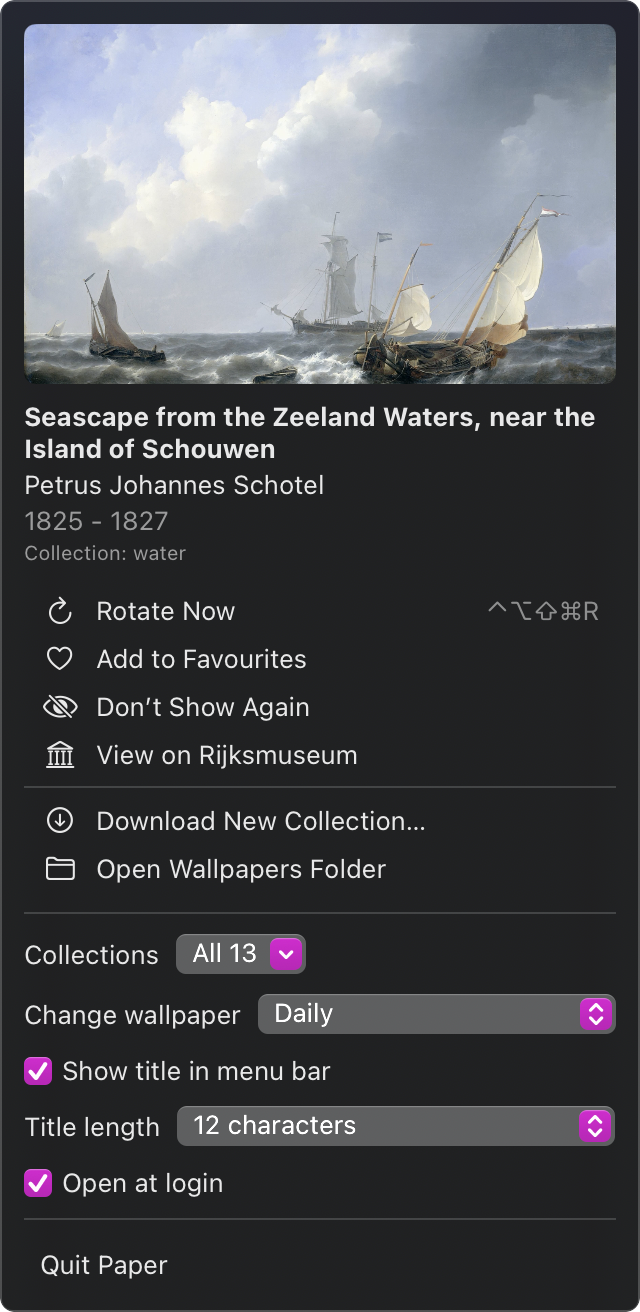
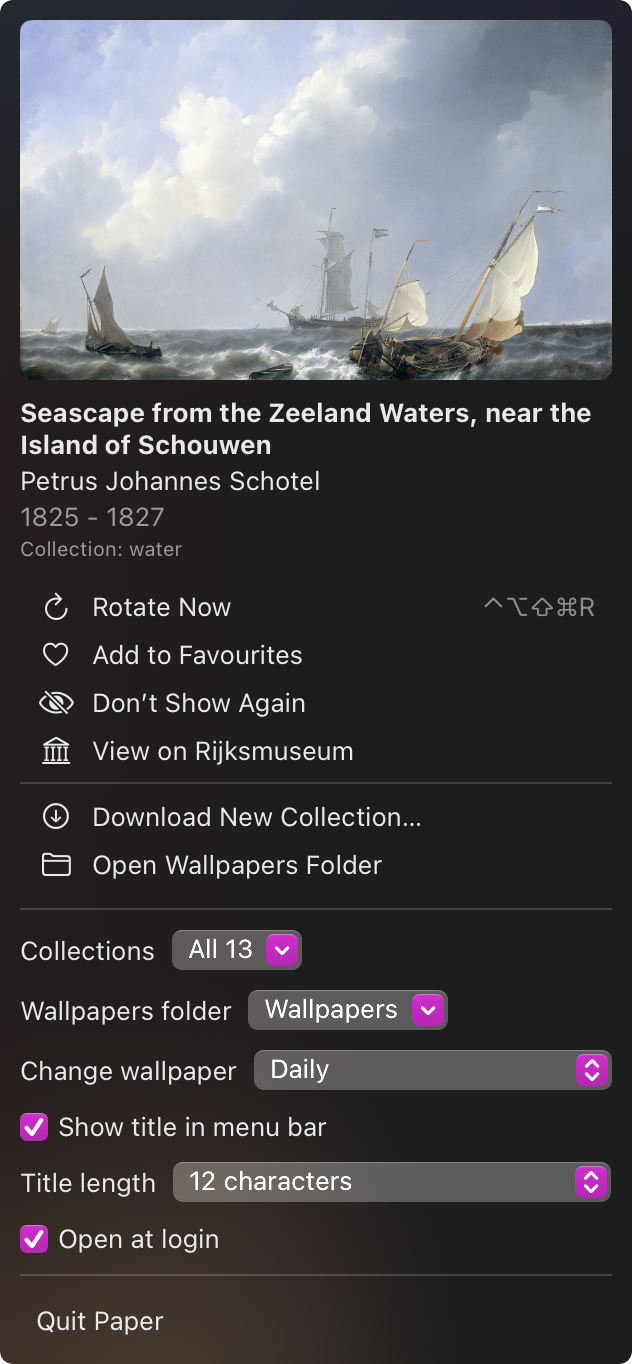
Add a choice of wallpapers folder, and rework the README

diff --git a/Paper/Sources/Paper/Library.swift b/Paper/Sources/Paper/Library.swift
@@ -7,14 +7,38 @@ import ServiceManagement
 /// _metadata.json files and current_wallpaper.json keep working (and the
 /// scripts can still run alongside the app).
 enum Paths {
-    static let root: URL = {
+    static let defaultRoot = FileManager.default.homeDirectoryForCurrentUser
+        .appendingPathComponent("Pictures/Wallpapers")
+
+    private static let commandLineRoot: URL? = {
         let args = CommandLine.arguments
-        if let i = args.firstIndex(of: "--root"), i + 1 < args.count {
-            return URL(fileURLWithPath: (args[i + 1] as NSString).expandingTildeInPath)
-        }
-        return FileManager.default.homeDirectoryForCurrentUser
-            .appendingPathComponent("Pictures/Wallpapers")
+        guard let i = args.firstIndex(of: "--root"), i + 1 < args.count else { return nil }
+        return URL(fileURLWithPath: (args[i + 1] as NSString).expandingTildeInPath)
     }()
+
+    /// The folder chosen in the menu; nil means the default.
+    static var chosenRoot: URL? {
+        get { UserDefaults.standard.string(forKey: "wallpapersFolder").map { URL(fileURLWithPath: $0) } }
+        set { UserDefaults.standard.set(newValue?.path, forKey: "wallpapersFolder") }
+    }
+
+    static var root: URL { commandLineRoot ?? chosenRoot ?? defaultRoot }
+
+    static var rootExists: Bool {
+        var isDirectory: ObjCBool = false
+        return FileManager.default.fileExists(atPath: root.path, isDirectory: &isDirectory) && isDirectory.boolValue
+    }
+
+    /// Creates the root, unless it's a chosen folder: if that's missing its
+    /// drive is probably unplugged, and a new empty folder would hide that.
+    static func createRootIfNeeded() {
+        guard commandLineRoot != nil || chosenRoot == nil else { return }
+        try? FileManager.default.createDirectory(at: root, withIntermediateDirectories: true)
+    }
+
+    static var missingRootMessage: String {
+        "Can’t find the wallpapers folder “\(root.lastPathComponent)”. Is its drive connected?"
+    }
 
     static var stateFile: URL { root.appendingPathComponent("current_wallpaper.json") }
 }
@@ -107,6 +131,7 @@ final class Library: ObservableObject {
     @Published private(set) var thumbnail: NSImage?
     @Published private(set) var problem: String?
     @Published private(set) var collections: [Collection] = []
+    @Published private(set) var folder = Paths.root
     @Published private(set) var disabledCollections: Set<String> {
         didSet { StoredSet(key: "disabledCollections").save(disabledCollections) }
     }
@@ -135,7 +160,7 @@ final class Library: ObservableObject {
         favourites = StoredSet(key: "favourites").load()
         hidden = StoredSet(key: "hidden").load()
         // So Open Wallpapers Folder works before the first download.
-        try? FileManager.default.createDirectory(at: Paths.root, withIntermediateDirectories: true)
+        Paths.createRootIfNeeded()
         reload()
         refreshCollections()
         rotateHotKey = HotKey(keyCode: kVK_ANSI_R, modifiers: HotKey.hyper) { [weak self] in
@@ -188,7 +213,8 @@ final class Library: ObservableObject {
         else {
             current = nil
             thumbnail = nil
-            problem = "No wallpaper chosen yet. Click Rotate Now."
+            lastRotated = nil
+            problem = Paths.rootExists ? "No wallpaper chosen yet. Click Rotate Now." : Paths.missingRootMessage
             return
         }
         lastRotated = (state["rotated_at"] as? String).flatMap(Self.parseTimestamp)
@@ -207,6 +233,18 @@ final class Library: ObservableObject {
                 self?.thumbnail = NSImage(cgImage: image, size: NSSize(width: image.width, height: image.height))
             }
         }
+    }
+
+    /// Switches to another wallpapers folder (nil for the default). Paintings
+    /// in the old one stay where they are.
+    func setFolder(_ url: URL?) {
+        Paths.chosenRoot = url?.standardizedFileURL == Paths.defaultRoot.standardizedFileURL ? nil : url
+        Paths.createRootIfNeeded()
+        folder = Paths.root
+        reload()
+        refreshCollections()
+        applyCurrent()
+        checkSchedule()
     }
 
     func refreshCollections() {
@@ -238,6 +276,10 @@ final class Library: ObservableObject {
 
     func rotate() {
         refreshCollections()
+        guard Paths.rootExists else {
+            problem = Paths.missingRootMessage
+            return
+        }
         // Enabled collections, minus hidden paintings and the current one;
         // favourites weigh more.
         var pool: [(folder: String, file: String, weight: Double)] = []
@@ -256,20 +298,26 @@ final class Library: ObservableObject {
                 : "Nothing to show: every collection is turned off or hidden."
             return
         }
-        Self.applyWallpaper(Paths.root.appendingPathComponent(pick.folder).appendingPathComponent(pick.file))
         let state: [String: Any] = [
             "folder": pick.folder,
             "filename": pick.file,
             "rotated_at": Self.formatTimestamp(Date()),
         ]
-        if let data = try? JSONSerialization.data(withJSONObject: state) {
-            try? data.write(to: Paths.stateFile, options: .atomic)
+        // Saved before the wallpaper changes: if it can't be, the schedule
+        // would think a rotation was still due and change it every minute.
+        do {
+            try JSONSerialization.data(withJSONObject: state).write(to: Paths.stateFile, options: .atomic)
+        } catch {
+            problem = "Can’t save to the wallpapers folder “\(Paths.root.lastPathComponent)”."
+            return
         }
+        Self.applyWallpaper(Paths.root.appendingPathComponent(pick.folder).appendingPathComponent(pick.file))
         reload()
     }
 
     private func applyCurrent() {
-        if let url = current?.fileURL { Self.applyWallpaper(url) }
+        guard let url = current?.fileURL, FileManager.default.fileExists(atPath: url.path) else { return }
+        Self.applyWallpaper(url)
     }
 
     /// Applies to every display's current Space; skips displays already showing it.

diff --git a/Paper/Sources/Paper/MenuView.swift b/Paper/Sources/Paper/MenuView.swift
@@ -55,6 +55,7 @@ struct MenuView: View {
                 Button { NSWorkspace.shared.open(Paths.root) } label: {
                     Label("Open Wallpapers Folder", systemImage: "folder")
                 }
+                .disabled(!Paths.rootExists)
             }
             .buttonStyle(MenuRowStyle())
             .labelStyle(MenuRowLabelStyle())
@@ -79,6 +80,17 @@ struct MenuView: View {
                 }
                 .fixedSize()
             }
+            LabeledContent("Wallpapers folder") {
+                Menu(folderName) {
+                    Button("Choose…") { chooseFolder() }
+                    if Paths.chosenRoot != nil {
+                        Button("Use Pictures → Wallpapers") { library.setFolder(nil) }
+                    }
+                }
+                .fixedSize()
+            }
+            // Switching mid-download would split the collection.
+            .disabled(downloads.running)
             Picker("Change wallpaper", selection: $library.rotationInterval) {
                 Text("Never").tag(0.0)
                 Text("Every hour").tag(3_600.0)
@@ -112,6 +124,25 @@ struct MenuView: View {
     private var collectionsSummary: String {
         let on = library.collections.filter { !library.disabledCollections.contains($0.name) }.count
         return on == library.collections.count ? "All \(on)" : "\(on) of \(library.collections.count)"
+    }
+
+    private var folderName: String {
+        MenuBarLabel.truncateMiddle(library.folder.lastPathComponent) { $0.count <= 16 }
+    }
+
+    private func chooseFolder() {
+        let panel = NSOpenPanel()
+        panel.canChooseFiles = false
+        panel.canChooseDirectories = true
+        panel.canCreateDirectories = true
+        panel.directoryURL = library.folder
+        panel.message = "Choose where Paper keeps its paintings. Ones you already have stay where they are."
+        panel.prompt = "Choose"
+        NSApp.activate(ignoringOtherApps: true)
+        panel.begin { response in
+            guard response == .OK, let url = panel.url, !downloads.running else { return }
+            library.setFolder(url)
+        }
     }
 
     private func nowShowing(_ painting: Painting) -> some View {

diff --git a/Paper/Sources/Paper/Downloader.swift b/Paper/Sources/Paper/Downloader.swift
@@ -195,6 +195,11 @@ final class Downloader {
             log("“\(config.term)” has no characters usable in a folder name.")
             return
         }
+        Paths.createRootIfNeeded()
+        guard Paths.rootExists else {
+            log(Paths.missingRootMessage)
+            return
+        }
         let outDir = config.root.appendingPathComponent(folderName, isDirectory: true)
         let metadataURL = outDir.appendingPathComponent(Metadata.filename)
         var metadata = Metadata.load(metadataURL)

diff --git a/README.md b/README.md
@@ -1,60 +1,79 @@
+<div align="center">
+
+<img src="docs/icon.png" width="120" alt="">
+
 # Paper
 
-Museum paintings as your Mac wallpaper. Search for an artist, a place or a
-subject, and Paper downloads paintings from the Met, the Rijksmuseum, the Art
-Institute of Chicago and the Cleveland Museum of Art, then changes your
-wallpaper for you.
+**A museum on your desktop.**
 
-Free, with no account needed.
+Search for an artist, a place or a subject. Paper downloads the paintings<br>
+from four museums and changes your wallpaper for you.
 
-<img src="docs/screenshot.png" width="320" alt="Paper's menu, showing the current painting with buttons to rotate, favourite or hide it, and settings below">
+[![Latest release](https://img.shields.io/github/v/release/jflowermedia/paper?label=release&color=c9a24b)](../../releases)
+![macOS 14 or later](https://img.shields.io/badge/macOS-14%2B-2b2b2b)
+![Free, MIT licence](https://img.shields.io/badge/licence-MIT-2b2b2b)
 
-## Download
+**[Download](../../releases/latest/download/Paper.zip)** &nbsp;·&nbsp; **[Guide](#guide)** &nbsp;·&nbsp; **[Report a problem](../../issues)**
 
-**[Download Paper](https://github.com/jflowermedia/paper/releases/latest/download/Paper.zip)**
-for macOS 14 Sonoma or later.
+</div>
 
-1. Open the downloaded zip and drag **Paper** into your Applications folder.
-2. Open Paper. The first time, macOS will say it can't verify it, because Paper
-   isn't registered with Apple. Click **Done**.
-3. Go to **System Settings → Privacy & Security**, scroll down, and click
-   **Open Anyway** next to Paper. You only need to do this once.
+<p align="center"><img src="docs/screenshot.png" width="316" alt="Paper's menu: a seascape with its title, artist and date, buttons to rotate, favourite or hide it, and settings for collections, folder and timing below"></p>
 
-Paper appears in your menu bar, at the top right of the screen.
+| 1. Search | 2. Download | 3. Rotate | 4. Keep |
+|:--|:--|:--|:--|
+| Type an artist, a place or a subject. | Paintings are saved as a collection. | Your wallpaper changes every hour, every day, or when you say. | Favourites come up more often. Hide the ones you don't like. |
 
-## Getting started
+> [!NOTE]
+> Tested on one Mac with Apple Silicon. It's built for Intel Macs too, but hasn't been tried on one.
 
-Click Paper in the menu bar and choose **Download New Collection…**. Type
-something like *Venice*, *moonlight* or *Vermeer*, and click **Download**.
-A wallpaper appears about a minute after the first painting is saved.
+## The paintings
 
-Every search becomes a collection, so you can build up as many as you like.
+- **Four museums:** the Met, the Rijksmuseum, the Art Institute of Chicago and the Cleveland Museum of Art. No account needed.
+- **Public domain only**, going by what each museum says about the work.
+- **Nothing twice.** Paintings already in your collections are skipped.
+- **Landscape by default**, because it suits a screen. You can turn that off when you download.
+- **No religious subjects.** Paper goes by the words in the museum's record, so it sometimes misses one or skips something it shouldn't.
+- **From the Met**, only European paintings from 1400 to 1850.
 
-## Everyday use
+## Install
 
-- **Rotate Now** changes the wallpaper straight away. You can also press
-  ⌃⌥⇧⌘R in any app.
-- **Add to Favourites** makes a painting come up more often.
-- **Don’t Show Again** hides a painting for good. If you change your mind, you
-  can bring hidden paintings back from the Collections menu.
-- **View on…** opens the painting's page on the museum's website.
-- **Collections** lets you choose which collections to use.
-- **Change wallpaper** sets how often it changes, from every hour to every day.
+Download **[Paper.zip](../../releases/latest/download/Paper.zip)**, unzip it, and drag **Paper.app** to Applications.
 
-## Good to know
+Paper isn't notarized by Apple, so macOS blocks the first launch:
 
-- Your paintings are in the Wallpapers folder inside Pictures.
-- Paper leaves out religious subjects. It goes by words in the title and
-  description, so it sometimes misses one or skips something it shouldn't.
-- It picks landscape paintings, which suit a screen. You can turn that off when
-  you download.
+1. Open Paper and click **Done** on the warning.
+2. Go to **System Settings → Privacy & Security** and click **Open Anyway** beside Paper.
+3. Open Paper again and click **Open**.
 
-## Removing Paper
+Paper then appears in your menu bar, at the top right of the screen.
 
-Turn off **Open at login**, choose **Quit Paper**, and drag Paper from
-Applications to the Bin. Your paintings stay in Pictures until you delete them.
+## Guide
 
-## Licence
+**Get some paintings.** Click Paper in the menu bar and choose **Download New Collection…**. Type something like *Venice*, *moonlight* or *Vermeer*, and click **Download**. If you have no wallpaper from Paper yet, the first one appears within about a minute.
 
-Paper is free to use and share under the [MIT License](LICENSE). The paintings
-come from the museums, so check their websites before reusing an image.
+**Every day.** Everything else is in the same menu.
+
+| Menu | What it does |
+|:--|:--|
+| **Rotate Now** | Changes the wallpaper. <kbd>⌃⌥⇧⌘R</kbd> does the same from any app. |
+| **Add to Favourites** | Makes a painting four times as likely to come up. |
+| **Don’t Show Again** | Hides a painting. Bring hidden ones back from **Collections**. |
+| **View on…** | Opens the painting on the museum's website. |
+| **Collections** | Turns whole collections on or off. |
+| **Wallpapers folder** | Keeps paintings somewhere other than Pictures → Wallpapers. Ones you already have stay where they are, but you can move them in Finder. |
+| **Change wallpaper** | Every hour, 3 hours, 6 hours, every day, or never. |
+
+**Remove it.** Turn off **Open at login**, choose **Quit Paper**, and drag Paper from Applications to the Bin. Your paintings stay in their folder until you delete them.
+
+## Credits
+
+Built by **[JFlowerMedia](https://github.com/jflowermedia)**.
+
+Paintings come from the open collections of [The Met](https://www.metmuseum.org/), the [Rijksmuseum](https://www.rijksmuseum.nl/), the [Art Institute of Chicago](https://www.artic.edu/) and the [Cleveland Museum of Art](https://www.clevelandart.org/). Paper isn't affiliated with them. Paper is [MIT licensed](LICENSE).
+
+<details>
+<summary>Disclaimer</summary>
+
+Paper is provided as is, without warranty. It relies on each museum's own record of what is in the public domain, and those can be wrong. Check the museum's website before reusing an image.
+
+</details>
